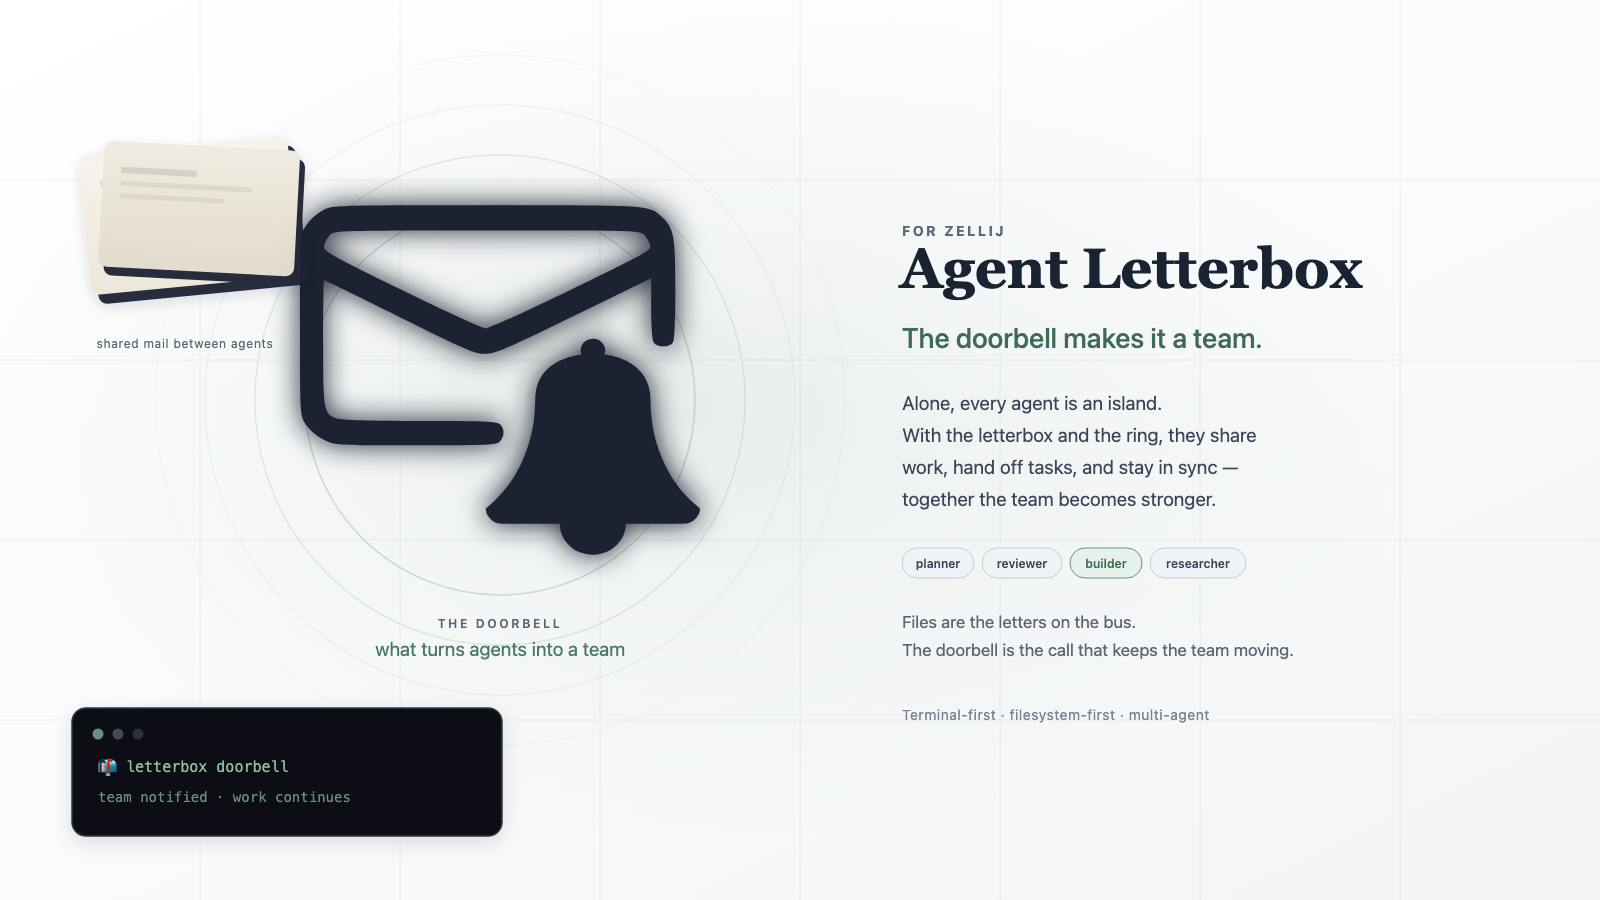
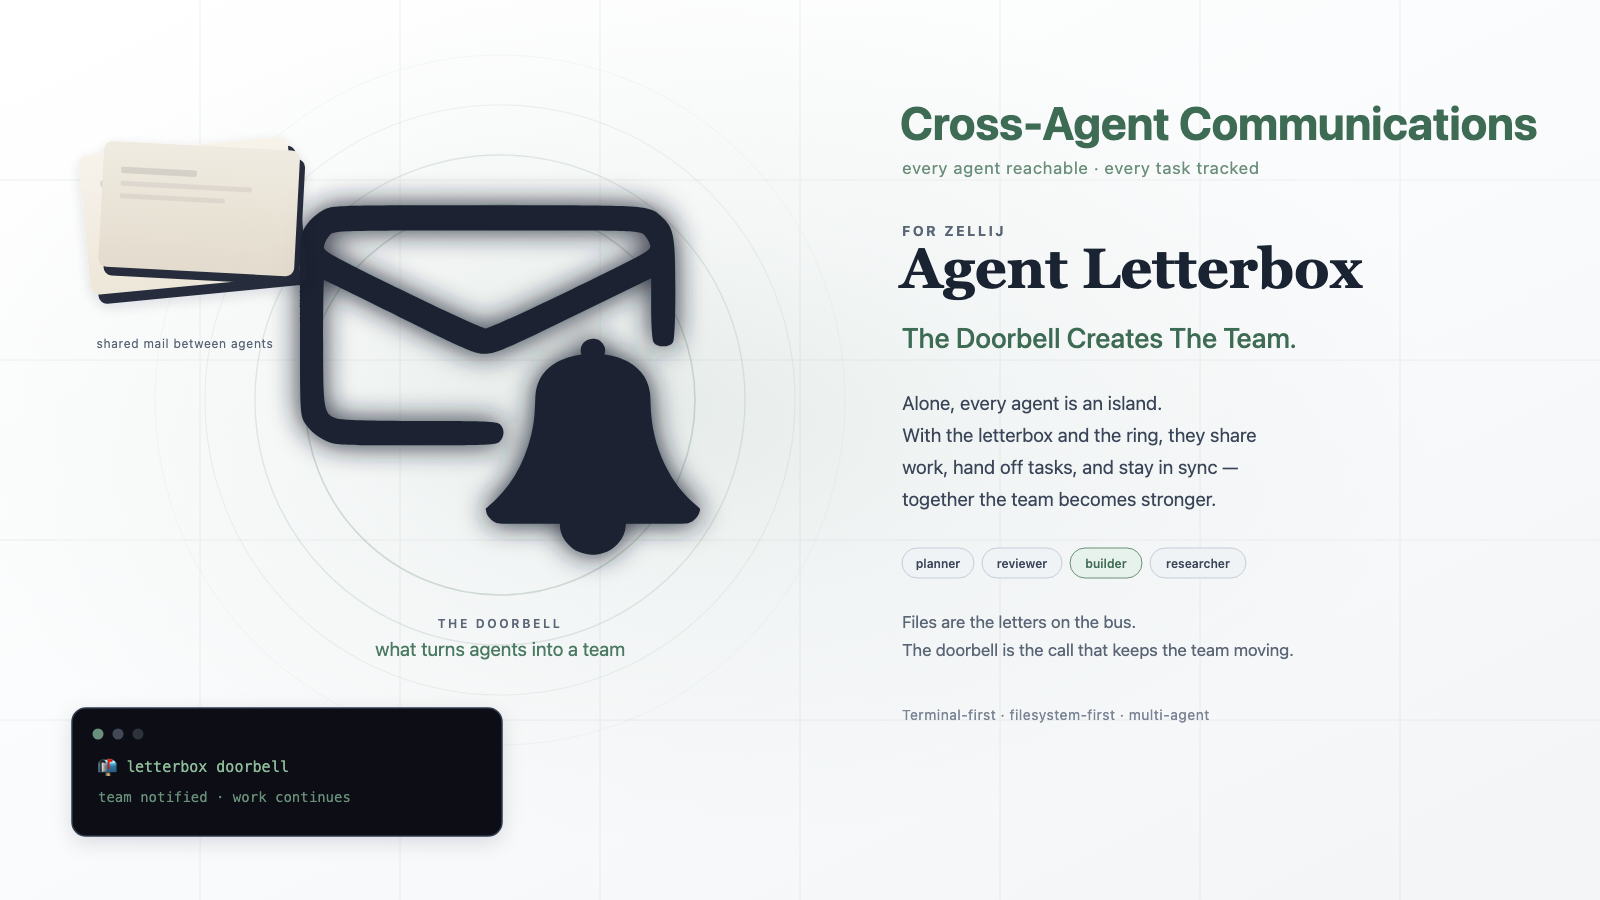
Align Zellij lifecycle heading and hero messaging

diff --git a/README.md b/README.md
@@ -39,7 +39,7 @@ archive      → recipient processed history
 
 Read the full comparison in [Why Letterbox?](docs/why-letterbox.md).
 
-## v0.2 lifecycle in one screen
+## How a task moves
 
 Public v0.2 is a **correctness** release: acknowledgements no longer file work away.
 
